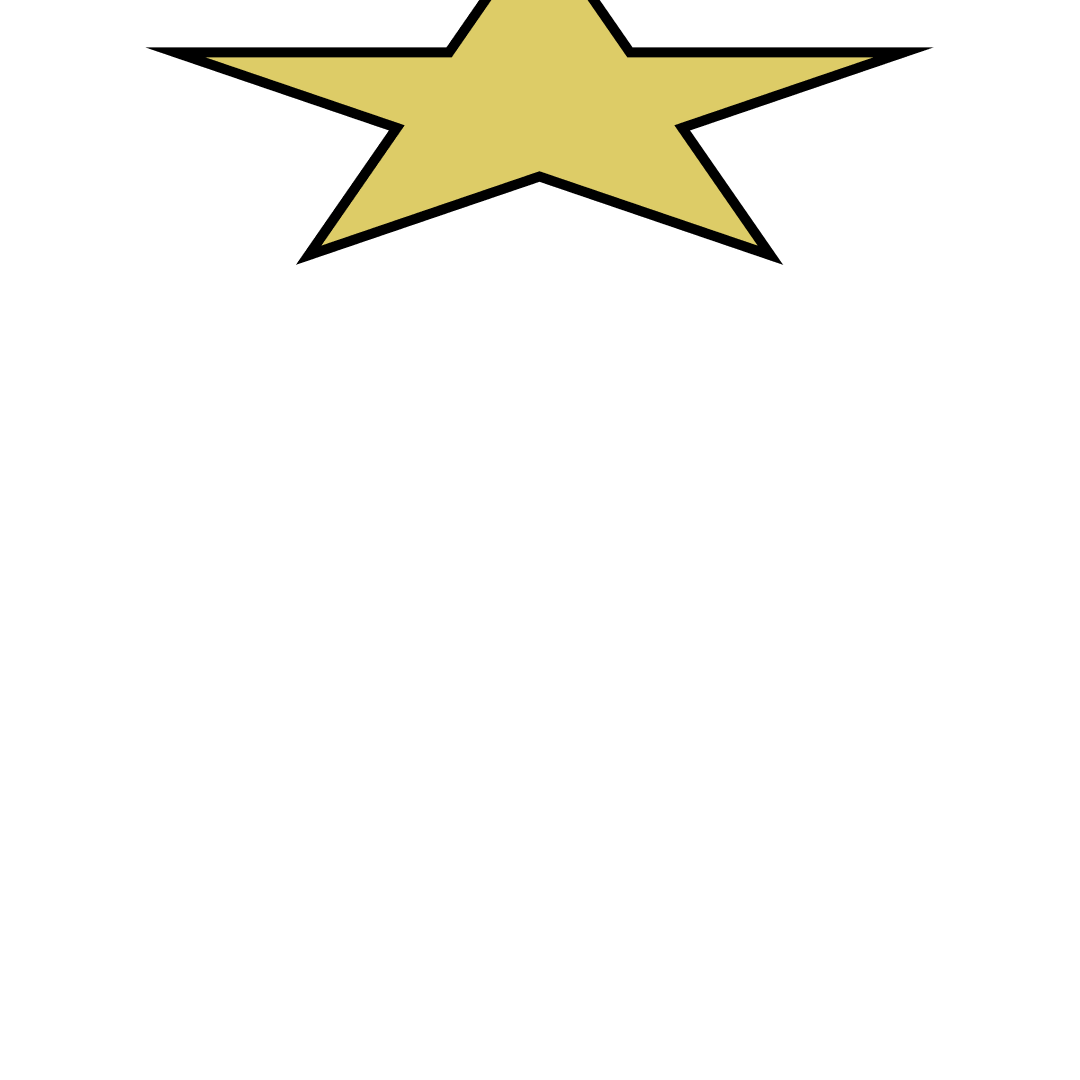
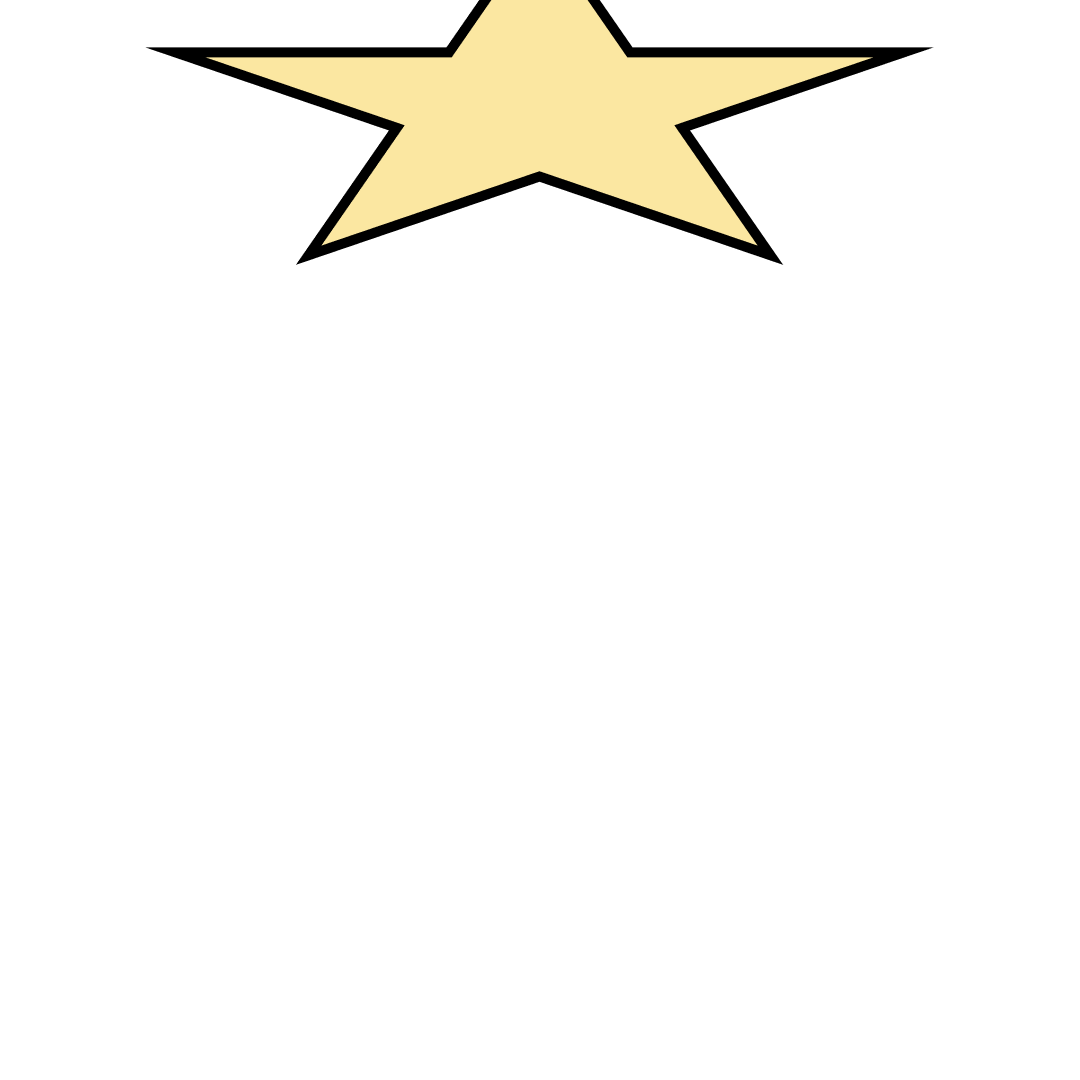
update colors

Changed region(s): [[0.1833, 0.0, 0.7944, 0.2444]]

diff --git a/pages/api/generate.ts b/pages/api/generate.ts
@@ -112,7 +112,7 @@ async function saveToIPFS(
 // https://www.bullionvault.co.uk/silver-guide/gold-silver-ratio
 const background = {
   white: 80,
-  silver: 20,
+  shiny: 20,
 };
 
 // https://www.researchgate.net/figure/Percentage-of-face-shapes-type-in-males_tbl2_332926733
@@ -127,9 +127,9 @@ const face = {
 // https://www.researchgate.net/figure/Number-and-percentages-of-hair-colours-in-the-UK-Biobank-cohort-by-gender_tbl1_329405511
 const hair = {
   red: 4, // #E25822
-  blonde: 10, // DDCC67
-  sienna: 40,
-  saddlebrown: 37,
+  blonde: 10, // #fbe7a1
+  brown: 40, // #B38B67
+  sienna: 37,
   black: 8,
   silver: 1,
 };
@@ -137,7 +137,7 @@ const hair = {
 // https://www.glasses.com/gl-us/blog/rarest-eye-color
 const eyes = {
   green: 9, // #046307
-  hazel: 18, // C8B575
+  hazel: 18, // #C8B575
   blue: 27, // #40B0E0
   sienna: 45, // sienna
   grey: 1, // silver

diff --git a/pages/index.tsx b/pages/index.tsx
@@ -129,6 +129,7 @@ const Home: NextPage = () => {
                 width="500"
                 height="500"
                 alt="RainbowKit Demo NFT"
+                style={{ border: "3px solid black", borderRadius: "16px" }}
               />
               <h1 style={{ marginTop: 24 }}>Rainbow NFT</h1>
               <ConnectButton />
